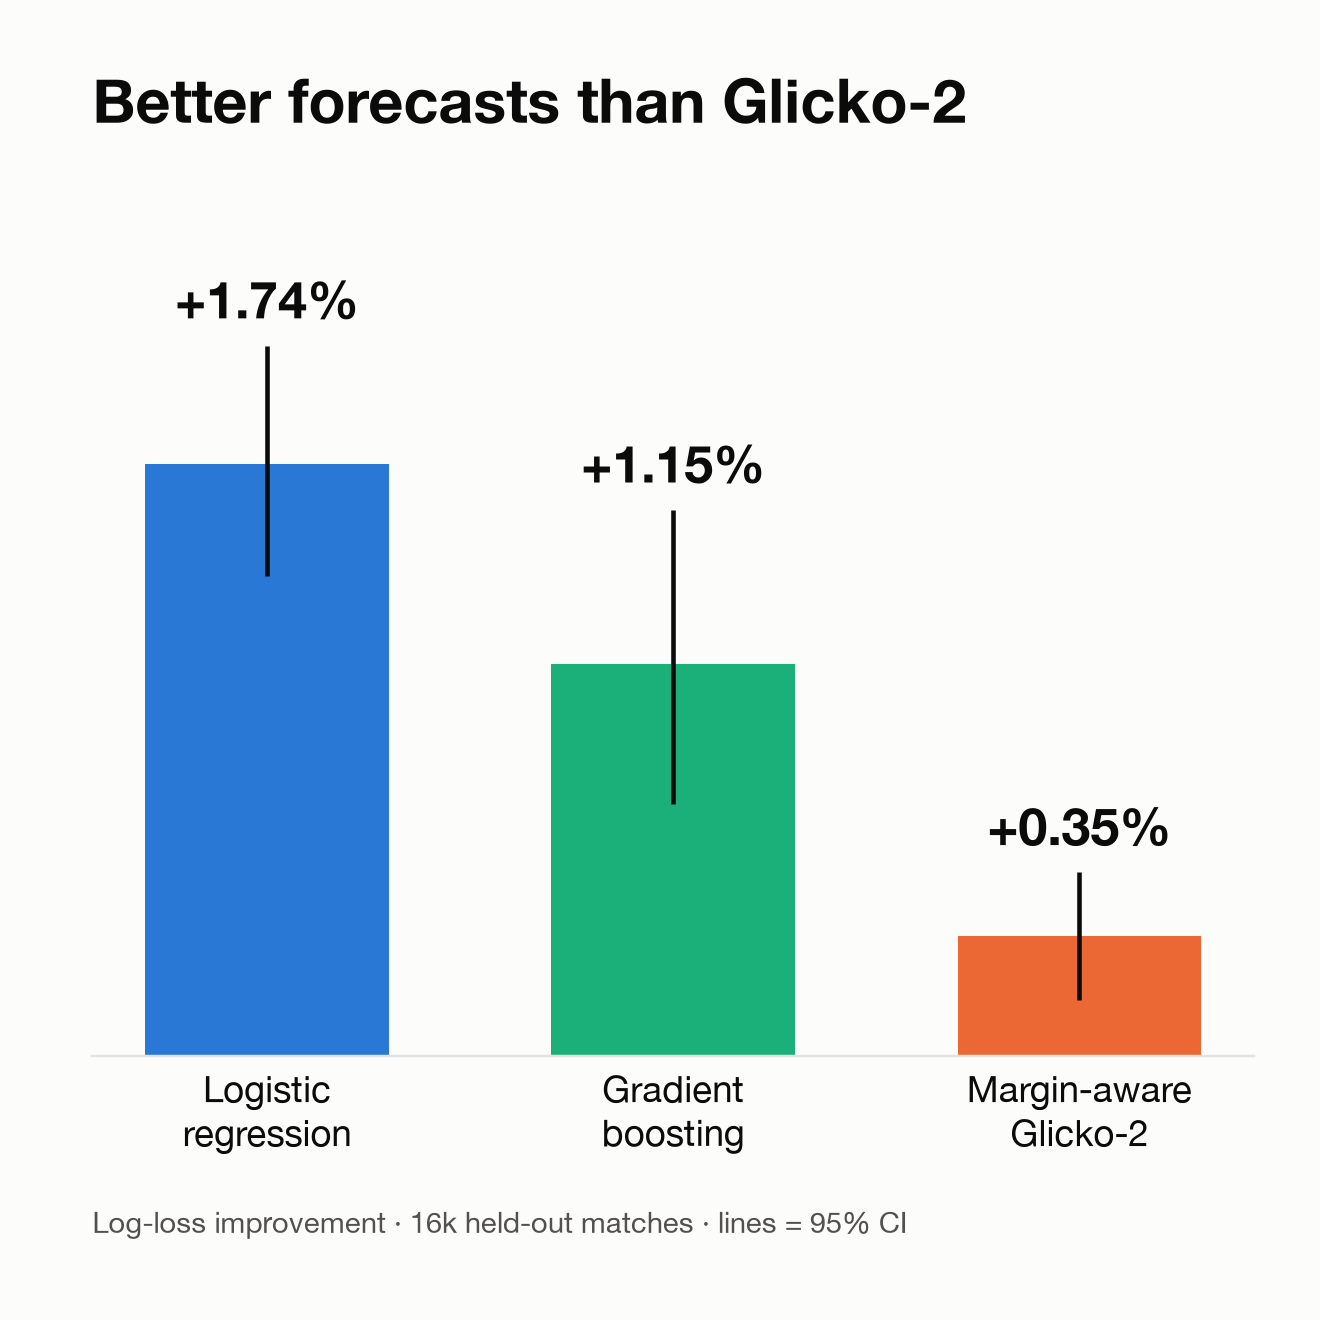
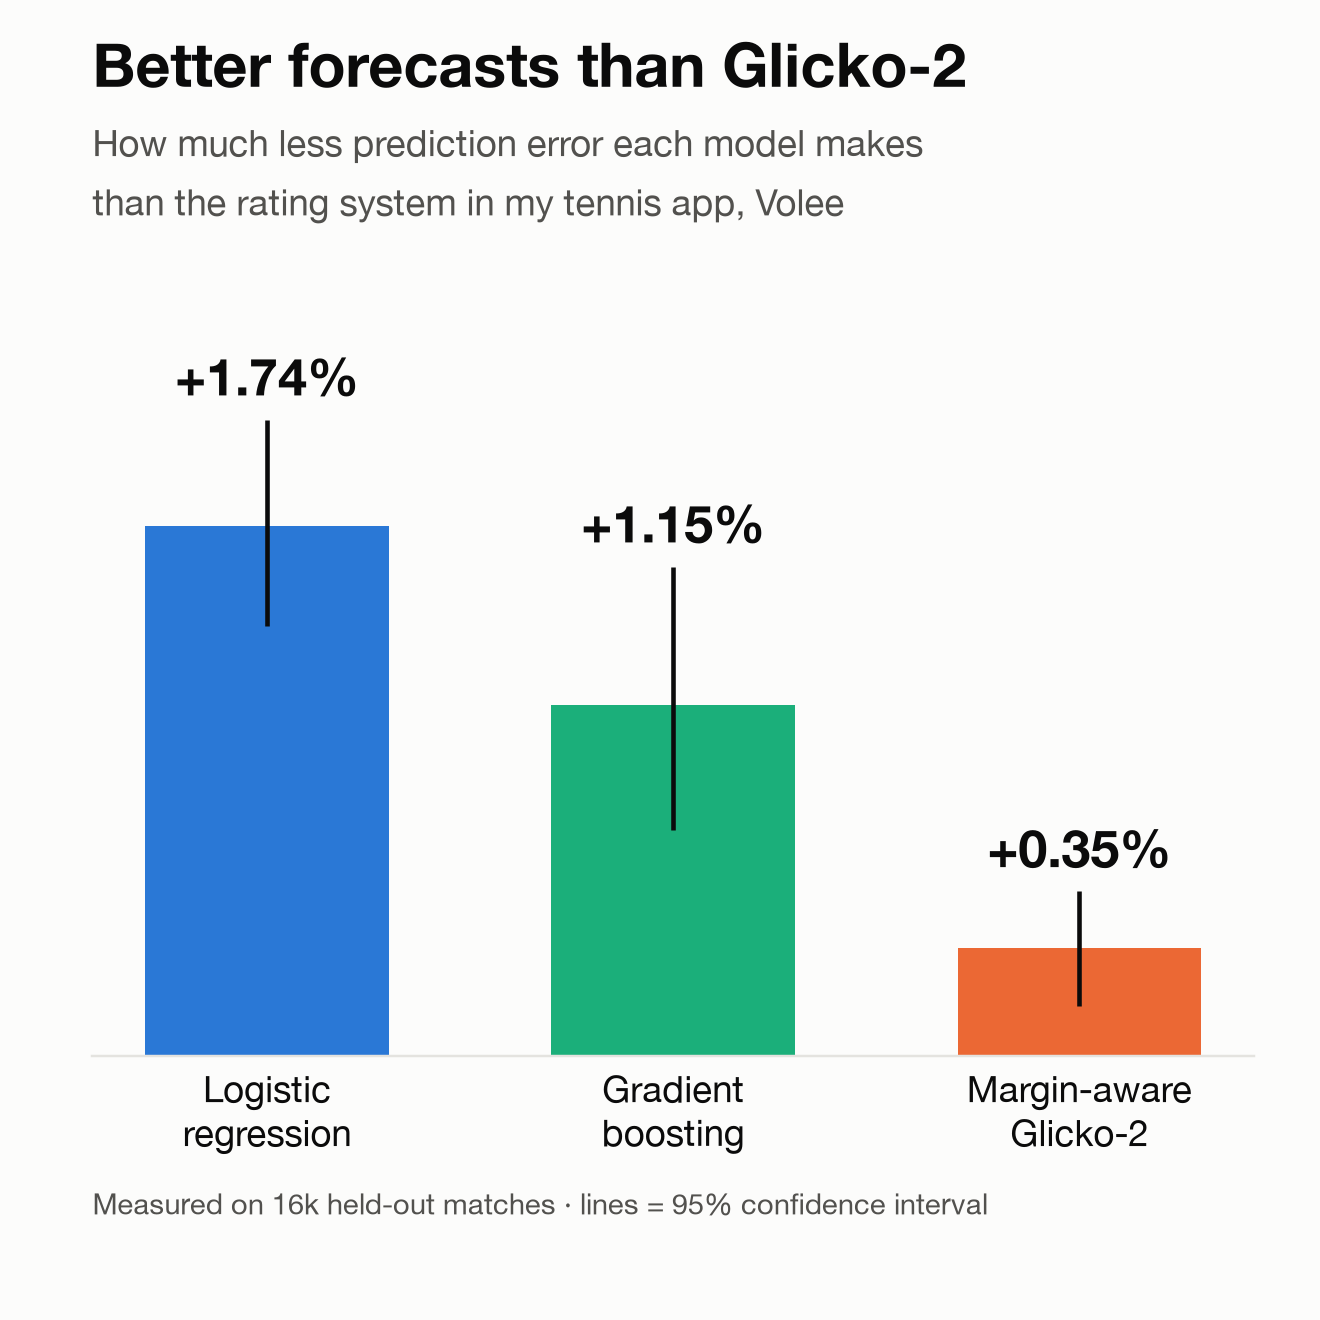
LinkedIn charts: say what the percentages mean for the app

diff --git a/volee_ml/figures.py b/volee_ml/figures.py
@@ -291,10 +291,12 @@ def linkedin(test: pd.DataFrame, preds: dict) -> None:
     ax.set_yticks([])
     ax.spines["left"].set_visible(False)
     ax.set_ylim(0, 2.6)
-    ax.set_title("Better forecasts than Glicko-2", fontsize=20, pad=16)
-    ax.text(0, -0.2, "Log-loss improvement · 16k held-out matches · lines = 95% CI",
+    ax.set_title("Better forecasts than Glicko-2", fontsize=20, pad=58)
+    ax.text(0, 1.035, "How much less prediction error each model makes\nthan the rating system in my tennis app, Volee",
+            transform=ax.transAxes, color=SUB, fontsize=12, va="bottom", linespacing=1.4)
+    ax.text(0, -0.2, "Measured on 16k held-out matches · lines = 95% confidence interval",
             transform=ax.transAxes, color=SUB, fontsize=9.5)
-    fig.subplots_adjust(left=0.07, right=0.95, top=0.87, bottom=0.2)
+    fig.subplots_adjust(left=0.07, right=0.95, top=0.8, bottom=0.2)
     save(fig, "linkedin_1.png")
 
     unsure = ((test["rd_a"] > 90) | (test["rd_b"] > 90)).to_numpy()
@@ -314,9 +316,11 @@ def linkedin(test: pd.DataFrame, preds: dict) -> None:
     ax.set_yticks([])
     ax.spines["left"].set_visible(False)
     ax.set_ylim(0, 3.7)
-    ax.set_title("Biggest gains for new players", fontsize=20, pad=16)
-    ax.text(0, -0.13, "Log-loss improvement over Glicko-2 · new = rating still uncertain", transform=ax.transAxes, color=SUB, fontsize=9.5)
-    fig.subplots_adjust(left=0.07, right=0.95, top=0.87, bottom=0.15)
+    ax.set_title("Biggest gains for new players", fontsize=20, pad=58)
+    ax.text(0, 1.035, "New players' ratings are the least reliable, so this is\nwhere better predictions would make Volee's matchups fairer",
+            transform=ax.transAxes, color=SUB, fontsize=12, va="bottom", linespacing=1.4)
+    ax.text(0, -0.13, "Less prediction error (log loss) than Glicko-2", transform=ax.transAxes, color=SUB, fontsize=9.5)
+    fig.subplots_adjust(left=0.07, right=0.95, top=0.8, bottom=0.15)
     save(fig, "linkedin_2.png")
 
 
